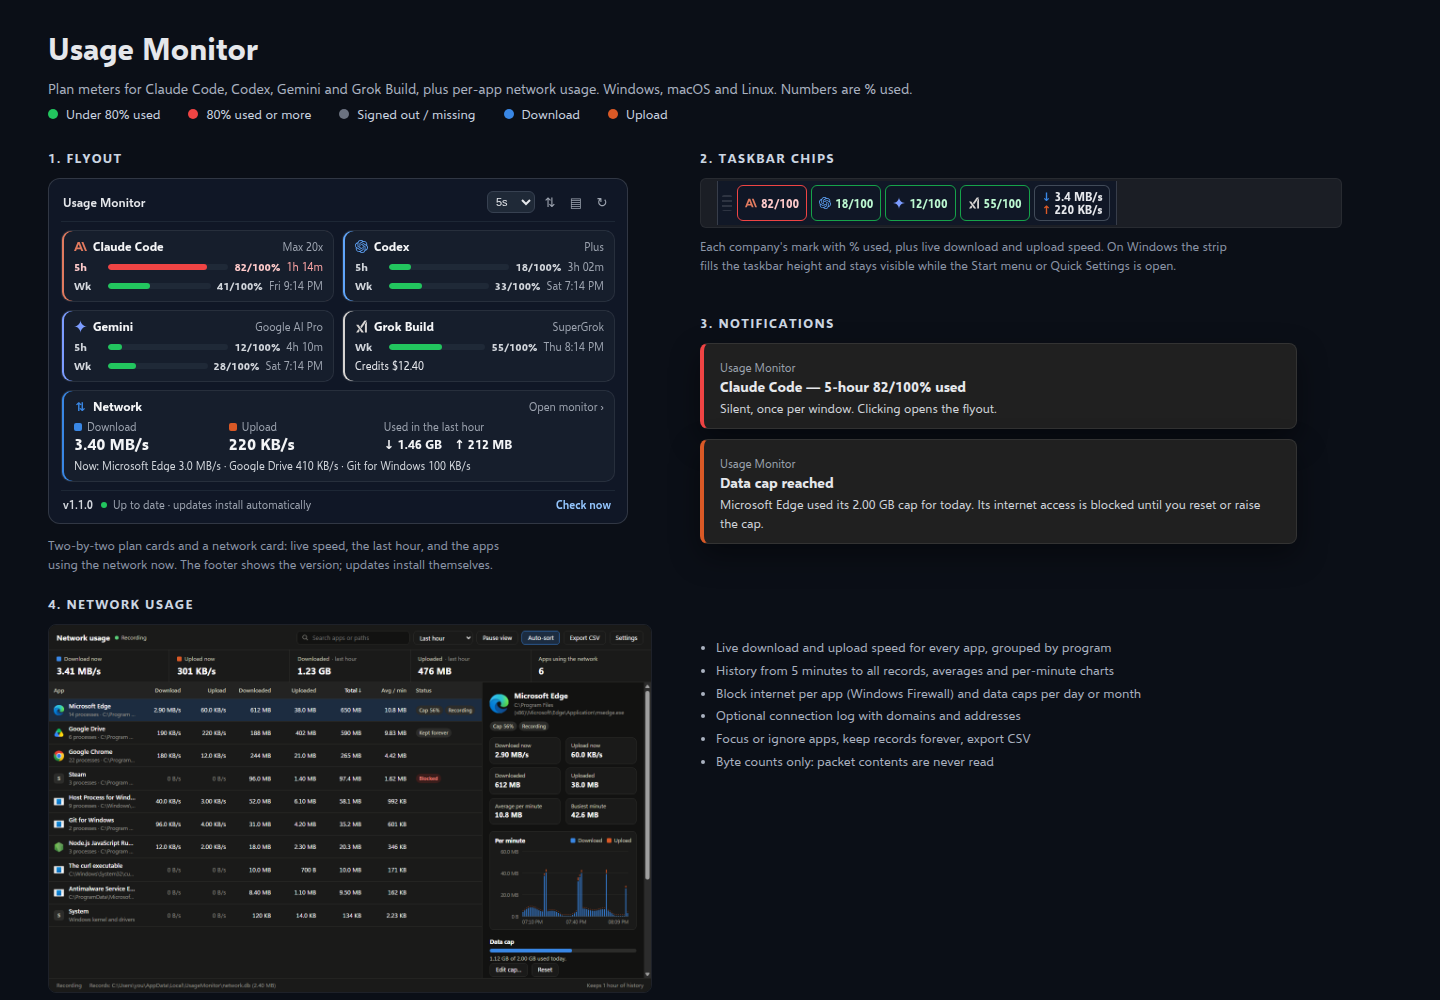
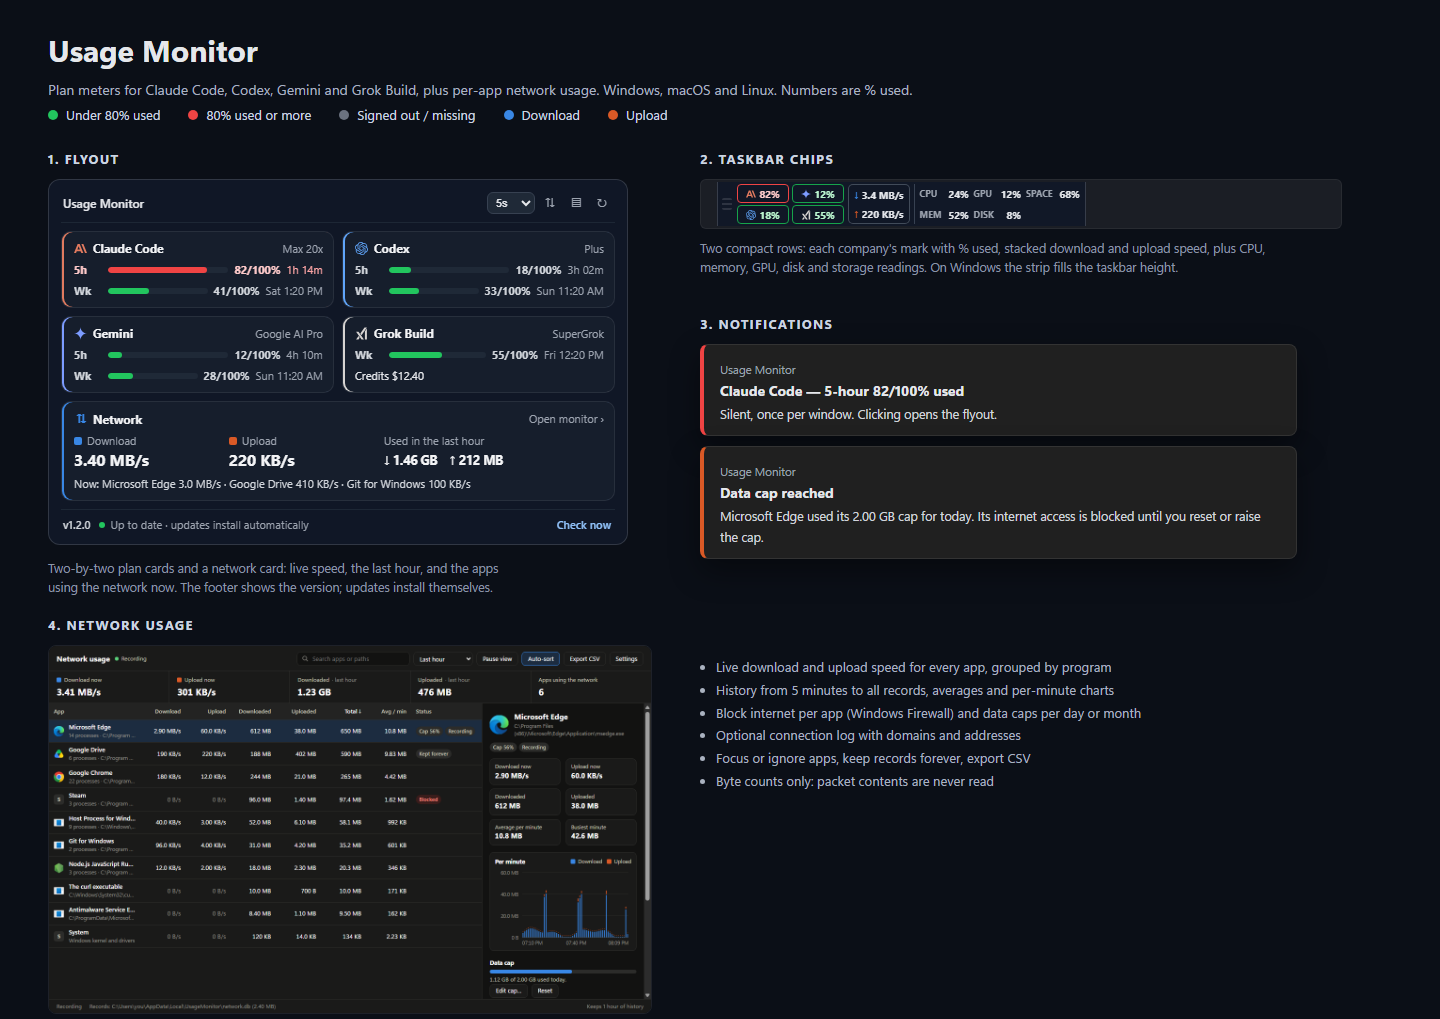
Prepare the 1.2.0 release
Bump the version, date the changelog section (the Release workflow uses
it as the release notes), update the versioned file names in the README
and regenerate the screenshots for the two-row chips.

diff --git a/docs/handoff.md b/docs/handoff.md
@@ -52,12 +52,12 @@ Audit and fix defects, bugs and usage miscalculations; harden the Windows app an
 
 `npm run dist` produces:
 
-- `dist/UsageMonitor-Setup-1.0.0.exe`
-- `dist/UsageMonitor-portable-1.0.0.exe`
-- `dist/Usage Monitor-1.0.0-win.zip`
+- `dist/UsageMonitor-Setup-1.2.0.exe`
+- `dist/UsageMonitor-portable-1.2.0.exe`
+- `dist/Usage Monitor-1.2.0-win.zip`
 - `dist/win-unpacked/Usage Monitor.exe`
 
-The build is unsigned: Authenticode inspection reported `NotSigned`. The builder's signing log does not establish that a signing certificate was used. No release was published. The chip selection correction is being committed and pushed to `origin/main`; local build artifacts were rebuilt with the correction.
+The build is unsigned: Authenticode inspection reported `NotSigned`. The builder's signing log does not establish that a signing certificate was used. 1.1.0 is published (tag `v1.1.0`). 1.2.0 is prepared (version, changelog, docs) but not tagged or published: run the Release workflow from `main` with "publish" ticked, or push tag `v1.2.0`. It is the first release the 1.1.0 updater can deliver.
 
 ## Release acceptance still needed
 

diff --git a/README.md b/README.md
@@ -119,9 +119,9 @@ Download the installer for your platform from [**Releases**](https://github.com/
 
 | Platform | Command | Files |
 | --- | --- | --- |
-| Windows | `npm run dist` | `UsageMonitor-Setup-1.1.0.exe` (installer; updates itself), `UsageMonitor-portable-1.1.0.exe` (single-file portable), `Usage Monitor-1.1.0-win.zip` (unpacked folder) |
-| macOS | `npm run dist:mac` (on a Mac) | `UsageMonitor-1.1.0-<arch>.dmg`, `.zip` |
-| Linux | `npm run dist:linux` (on Linux) | `UsageMonitor-1.1.0-x86_64.AppImage` (updates itself), `.tar.gz` |
+| Windows | `npm run dist` | `UsageMonitor-Setup-1.2.0.exe` (installer; updates itself), `UsageMonitor-portable-1.2.0.exe` (single-file portable), `Usage Monitor-1.2.0-win.zip` (unpacked folder) |
+| macOS | `npm run dist:mac` (on a Mac) | `UsageMonitor-1.2.0-<arch>.dmg`, `.zip` |
+| Linux | `npm run dist:linux` (on Linux) | `UsageMonitor-1.2.0-x86_64.AppImage` (updates itself), `.tar.gz` |
 
 ```sh
 npm install

diff --git a/CHANGELOG.md b/CHANGELOG.md
@@ -1,6 +1,6 @@
 # Changelog
 
-## Unreleased
+## 1.2.0 — 2026-09-29
 
 ### Two-row chips and system readings
 
